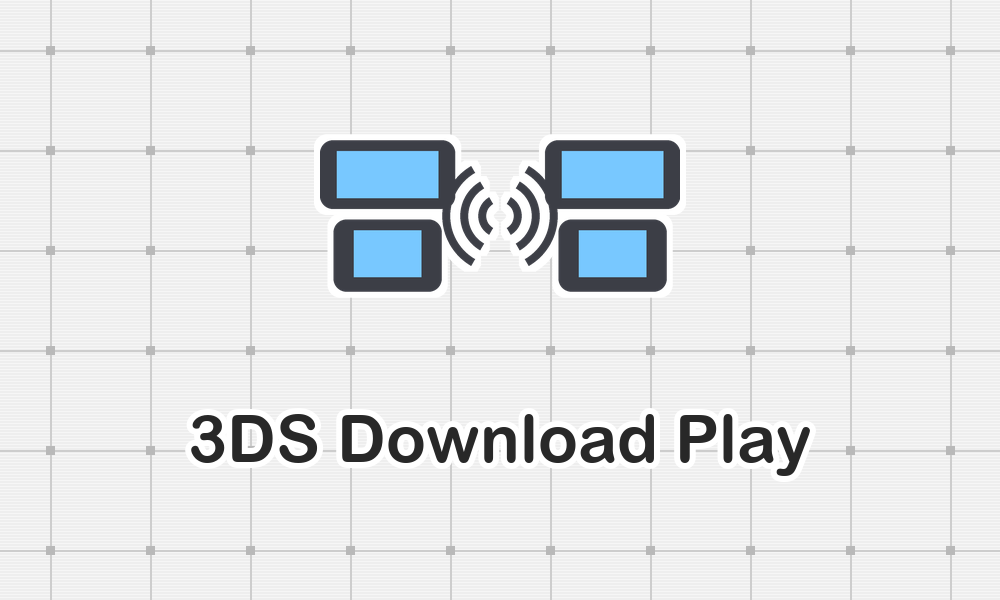
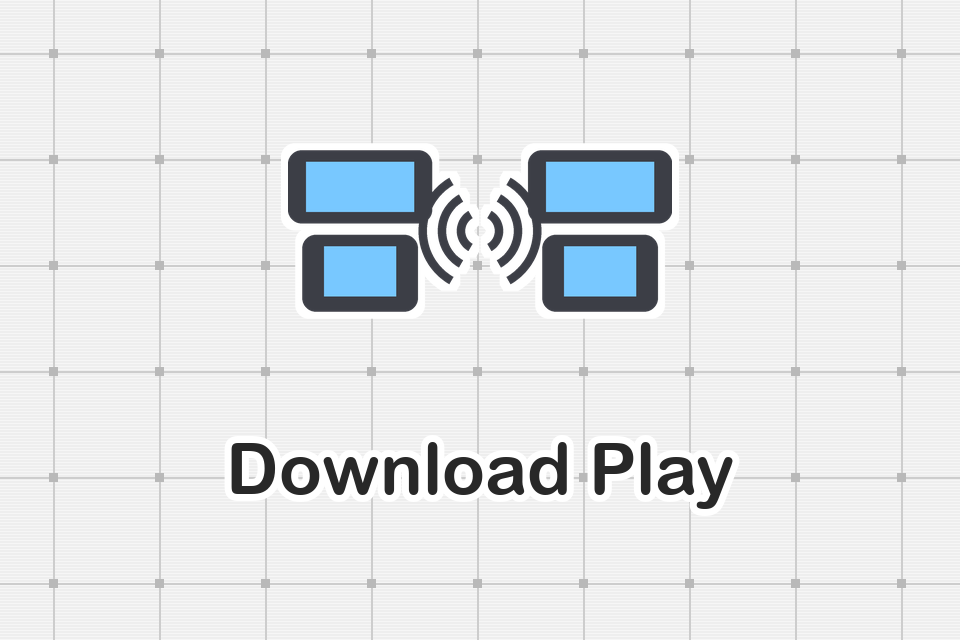
Download Play: one abstract screenshot for both rows

diff --git a/tools/n3ds-download-play/art/make_art.py b/tools/n3ds-download-play/art/make_art.py
@@ -130,8 +130,8 @@ def abstract_shot(size, title):
     centered(d, w / 2, int(h * 0.68), title, font(ROUNDED, h // 9), INK, max(4, h // 90), (255, 255, 255))
     return shot
 
-# --- screenshot: abstract, as the 2D box
-abstract_shot((1000, 600), '3DS Download Play').save(f'{OUT}/screenshot.png')
+# --- screenshot: abstract, as the 2D box; one image for both Download Play rows
+abstract_shot((960, 640), 'Download Play').save(f'{OUT}/screenshot.png')
 
 
 def warp(src, quad, size):

diff --git a/tools/nds-download-play/art/make_art.py b/tools/nds-download-play/art/make_art.py
@@ -133,8 +133,8 @@ def abstract_shot(size, title):
     centered(d, w / 2, int(h * 0.68), title, font(ROUNDED, h // 9), INK, max(4, h // 90), (255, 255, 255))
     return shot
 
-# --- screenshot: abstract, as the 2D box
-abstract_shot((768, 576), 'DS Download Play').save(f'{OUT}/screenshot.png')
+# --- screenshot: abstract, as the 2D box; one image for both Download Play rows
+abstract_shot((960, 640), 'Download Play').save(f'{OUT}/screenshot.png')
 
 
 def warp(src, quad, size):
